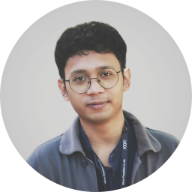
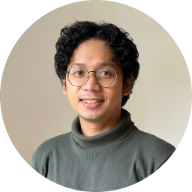
feat: update images
- profile picture
- favicon
- background image

diff --git a/index.html b/index.html
@@ -14,13 +14,13 @@
   <meta property="og:type" content="website" />
   <meta property="og:url" content="https://card.budi.day/">
   <meta property="og:site_name" content="Budiman Fajar F.">
-  <meta property="og:image" content="https://card.budi.day/images/mobile-profile-picture.jpeg">
+  <meta property="og:image" content="https://card.budi.day/images/profile-picture-1x1.jpg">
   <meta property="og:description" content="Known for exceptional problem-solving abilities, strong communication skills, and a collaborative team player :)">
 
   <meta name="twitter:card" content="summary">
   <meta name="twitter:site" content="Budiman Fajar F.">
   <meta name="twitter:title" content="Budiman Fajar F. | Software Engineer">
-  <meta name="twitter:image" content="https://card.budi.day/images/mobile-profile-picture.jpeg">
+  <meta name="twitter:image" content="https://card.budi.day/images/profile-picture-1x1.jpg">
   <meta name="twitter:description" content="Known for exceptional problem-solving abilities, strong communication skills, and a collaborative team player :)">
 
   <!-- Font Awesome if you need it
@@ -35,7 +35,7 @@
   <link rel="manifest" href="https://card.budi.day/site.webmanifest">
 </head>
 
-<body class="font-sans antialiased text-gray-900 leading-normal tracking-wider bg-cover" style="background-image:url('images/background-image.jpg');">
+<body class="font-sans antialiased text-gray-900 leading-normal tracking-wider bg-cover" style="background-image:url('images/IMG_3316.jpeg');">
 
 
 
@@ -47,7 +47,7 @@
 
 		<div class="p-4 md:p-12 text-center lg:text-left">
 			<!-- Image for mobile view-->
-			<div class="block lg:hidden rounded-full shadow-xl mx-auto -mt-16 h-48 w-48 bg-cover bg-center" style="background-image: url('images/mobile-profile-picture.jpeg')"></div>
+			<div class="block lg:hidden rounded-full shadow-xl mx-auto -mt-16 h-48 w-48 bg-cover bg-center" style="background-image: url('images/profile-picture-1x1.jpg')"></div>
 			
 			<h1 class="text-3xl font-bold pt-8 lg:pt-0">
 				Budiman Fajar
@@ -82,7 +82,7 @@
 	<!--Img Col-->
 	<div class="w-full lg:w-2/5">
 		<!-- Big profile image for side bar (desktop) -->
-		<img src="images/profile-picture.jpg" class="rounded-none lg:rounded-lg shadow-2xl hidden lg:block">
+		<img src="images/profile-picture-2x3.jpg" class="rounded-none lg:rounded-lg shadow-2xl hidden lg:block">
 		<!-- Image from: http://unsplash.com/photos/MP0IUfwrn0A -->
 		
 	</div>
